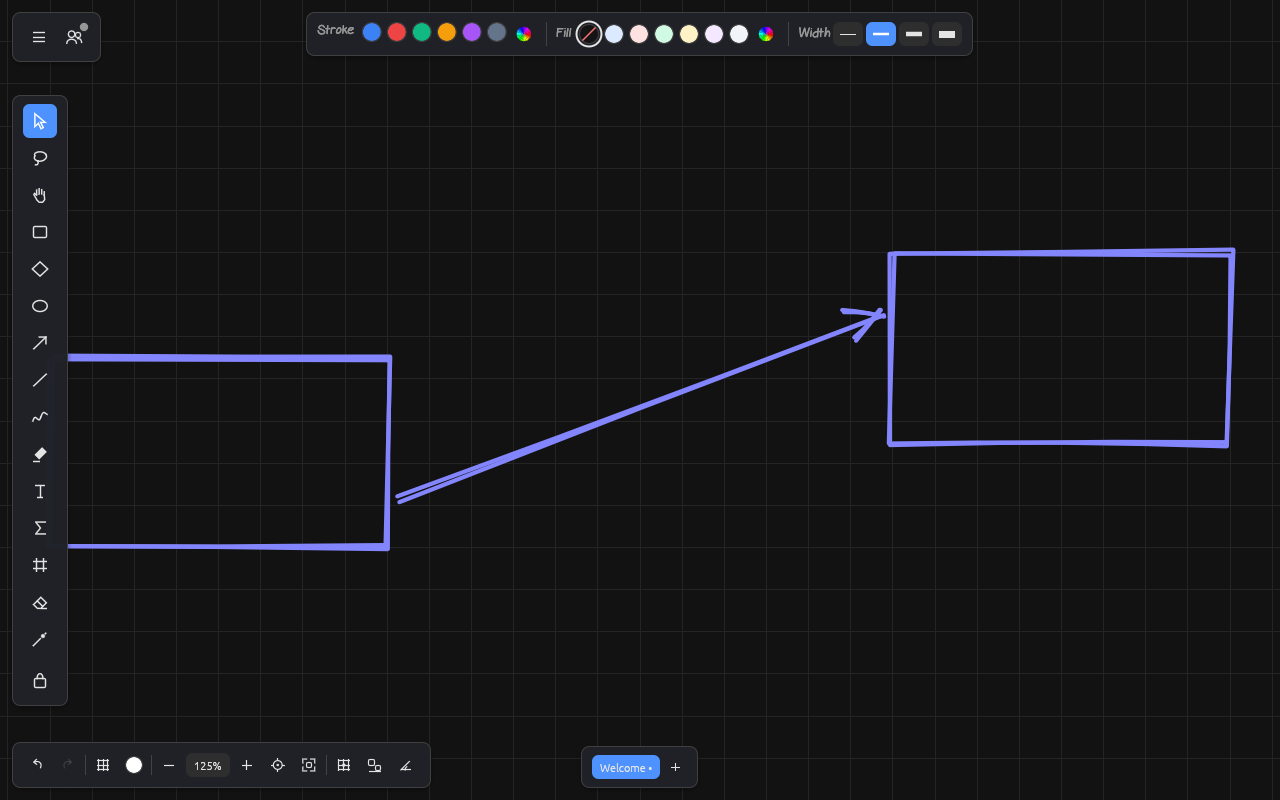
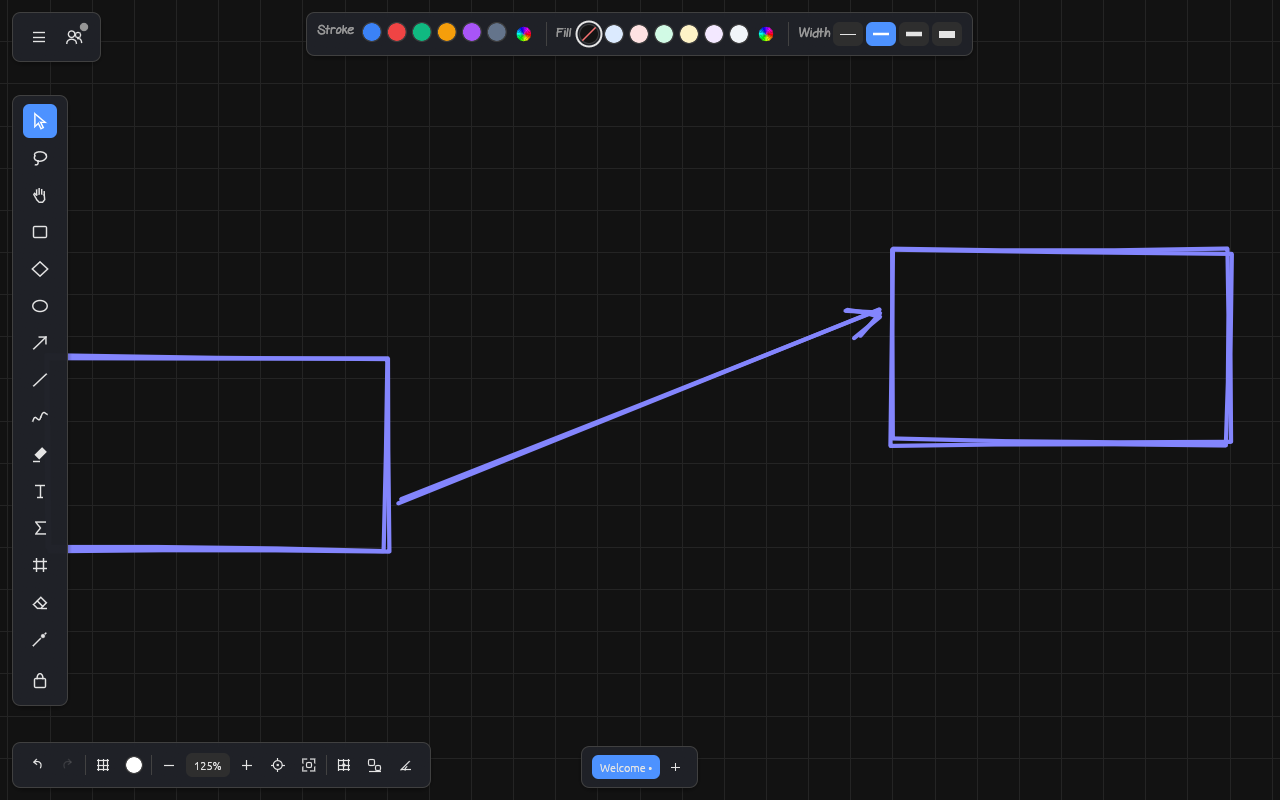
docs: building.md and web-app.md with measured native and web numbers, size breakdown; screenshots

diff --git a/docs/web-app.md b/docs/web-app.md
@@ -30,9 +30,15 @@ encodings and Chromium refuses the module (`unknown import kind 0x7e`).
 `dist/` holds `index.html`, `manifest.webmanifest`, `sw.js`, the icons, `BUILD` (the build hash) and `pkg/drafftink_web.js` plus
 `pkg/drafftink_web_bg.wasm`. The build hash (12 hex digits of the wasm and the glue) replaces `__BUILD__` in `index.html` and `sw.js`.
 
-Sizes of the first full app build (2026-11-08): raw 27.8 MB (with the name section), wasm-opt 17.3 MB, gzip -9 6.4 MB,
-**brotli -11 4.4 MB**. The graphics spike was 1.36 MB (docs/stack.md); the rest is the engine, Loro, the image codecs, the bundled
-fonts and the UI. There has been no size work yet.
+Sizes of the full app build (2026-11-08, `release-wasm`, wasm-bindgen 0.2.130, binaryen 133 `-Os` with the explicit feature list;
+MB here are MiB, as in `performance.md`): raw 28.25 MB (with the name section), **wasm-opt 17.50 MB**, gzip -9 6.47 MB,
+**brotli -11 4.46 MB**. The old app was 10.33 MB raw and 3.46 MB brotli, so the budget "brotli not above 3.5 MB" (`performance.md`)
+is missed by about 1 MB; the `size` gate of `cargo xtask ci` is still pending. The graphics spike was 1.36 MB (`stack.md`).
+`twiggy` on the unstripped module (code and data before `wasm-opt`) puts the biggest parts at: the name section 7.8 MB (stripped
+by the build), `.rodata` 5.3 MB, `fearless_simd` and `vello_cpu` about 2.1 MB (the CPU renderer for exports and `view.screenshot`),
+`drafftink_engine` about 1.8 MB, Loro about 1.4 MB, `read_fonts` and `skrifa` 0.9 MB, `serde_path_to_error` 0.5 MB, `schemars` 0.3 MB.
+Candidates for size work: the CPU renderer behind a second module, the command schemas (`schemars`) generated on demand,
+`serde_path_to_error` only in debug builds.
 
 ## What the page does
 
@@ -135,10 +141,10 @@ that asked for it. The worker is registered only on `https:` and on `localhost` 
 `target/release/drafftink-server`). It starts the server on an ephemeral port with `--web-dir dist --storage memory`, a private
 Xvfb and headed Chromium with the WebGPU flags of docs/shell.md, and checks: the page starts and draws; the API surface; the
 pairing refusals; the pairing keys are scrubbed from the address; 0 frames and the CPU of all Chromium processes in a 10 s idle
-window. With `--app`: `state`, `commands`, `describe`, a refusal as a rejected promise, a rectangle, an arrow and a batch, the
-ring shows origin `agent`, a screenshot, 0 frames after commands, the workspace in IndexedDB and back after a reload, two pages
+window. With `--app`: `state`, `commands`, `describe`, a refusal as a rejected promise, two rectangles with an arrow bound to both and `element.move` dragging it along, `commands()` with availability, a batch, the
+ring shows origin `agent`, a real mouse drag with the rectangle tool (key `r`) that draws a rectangle (origin `ui`), a screenshot, 0 frames after commands, the workspace in IndexedDB and back after a reload, two pages
 (`127.0.0.1` and `localhost`, so separate IndexedDB) in one `?room=` seeing each other's elements, 0 frames in a room alone and
-with a peer, the service worker active, and a reload with the server stopped still starting the app.
+with a peer (22 s windows, which cover the server ping and the presence heartbeat), the service worker active, and a reload with the server stopped still starting the app.
 
 Pure rules (address check, pairing link, backoff, frames, download names, address building, the write cache) have unit tests that
 run natively: `cargo test -p drafftink-web` (the files of `crates/app/src/web` that need no browser are compiled into that test
@@ -151,11 +157,10 @@ target, because the repository has no wasm test runner).
 - **PNG export on the web.** The renderer port is missing: reading the GPU texture back is asynchronous and the port is
   synchronous. Commands that need the renderer port (PNG export) refuse with `port_unavailable`. A fix needs an async export path in the app (the shell's
   `Compositor::render_to_image` already works on the web).
-- **Wire size.** 4.4 MB brotli for the first load; no size work yet. After the first visit the service worker serves it from cache.
-- **Idle while in a room.** Every wake from the collaboration socket draws a frame, including the server's ping (every 20 s) and a
-  peer's presence heartbeat (every 10 s): 1 frame in 22 s alone in a room, 5 with one peer (`web_check.py --app` reports this as
-  failing). The app answers `Repaint::Now` to every `Wake`; it could pump the collab session and repaint only when something
-  visible changed.
+- **Wire size.** 4.46 MB brotli for the first load (see above). After the first visit the service worker serves it from cache.
+- **Idle while in a room.** Fixed on 2026-11-08: a wake from the collaboration socket, and a collaboration deadline, go to the
+  app first (`ShellEvent::Wake(Collab)`, `docs/shell.md`); it pumps the session and asks for a frame only when the poll left a
+  visible change or a notice. Measured: 0 frames in 22 s alone in a room and in 22 s with a peer, after the join has settled.
 - **Two tabs.** The IndexedDB is read once per tab; the autosave record belongs to the tab that wrote last.
 - **File System Access** (saving to a chosen place) is not used: saving is a download or a stored document.
 - **Safari and Firefox** were not tried. The service worker, IndexedDB and pickers use standard APIs; WebGPU support decides.

diff --git a/docs/building.md b/docs/building.md
@@ -77,16 +77,23 @@ The browser needs WebGPU: Chromium-based browsers 113 and newer. Firefox and Saf
 
 | Window | Frames | CPU (% of one core) |
 |---|---|---|
-| idle 10 s | 0 | 0.6 |
+| idle 10 s | 0 | 0.4 |
 | hover over empty canvas 10 s, 125 moves/s | 0 | 1.6 |
 | idle 3 s after hover | 0 | 0.7 |
-| middle-button pan 5 s, 125 moves/s | about 1 per move | 53 |
+| middle-button pan 5 s, 125 moves/s | about 1 per move (631) | 39 |
 | idle 10 s after pan | 0 | 0.5 |
-| wheel 5 s, 100 ticks/s | about 2 per tick (egui smooths the wheel) | 63 |
-| idle 10 s after wheel | 0 | 0.6 |
-| idle 5 s after undo | 0 | 0.4 |
+| wheel 5 s, 100 ticks/s | about 2 per tick (938; egui smooths the wheel) | 62 |
+| idle 10 s after wheel | 0 | 0.4 |
+| idle 5 s after undo | 0 | 0.6 |
 
-The scene is the 52-element intro document; frames are counted from the shell's `drafftink_gpu::frame` log lines. Screenshots: `img/native-intro.png`, `img/native-text-edit.png`, `img/native-drawn.png`, `img/native-view-screenshot.png` (made by `view.screenshot` through the offscreen renderer).
+The scene is the 52-element intro document; frames are counted from the shell's `drafftink_gpu::frame` log lines. The script also
+draws through the bridge (two rectangles, an arrow bound to both, `element.move` drags the arrow along, `view.screenshot`) and
+with real X input (rectangle, arrow and text with the toolbar and the mouse; toolbar positions are fixed in the script and need a
+change when the toolbar changes). Screenshots: `img/native-intro.png`, `img/native-bridge-drawn.png`, `img/native-text-edit.png`,
+`img/native-drawn.png`, `img/native-view-screenshot.png`.
+
+Web (`web_check.py --app`, headed Chromium on the same machine, release-wasm build): 0 frames in 10 s idle (0.8 % of one core,
+all Chromium processes), 0 frames in 22 s alone in a room and 0 with a peer. Sizes and the rest are in `web-app.md`.
 
 ## 5. Where things are
 
